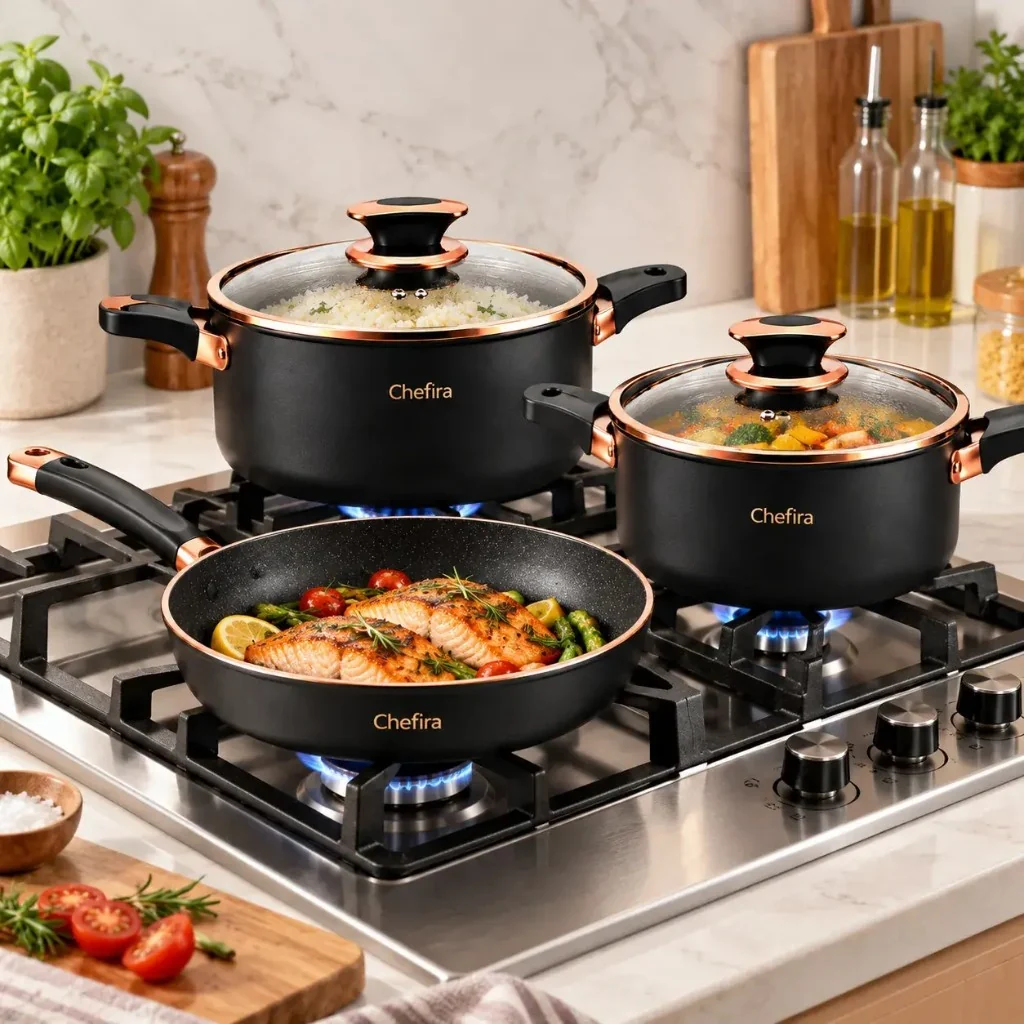
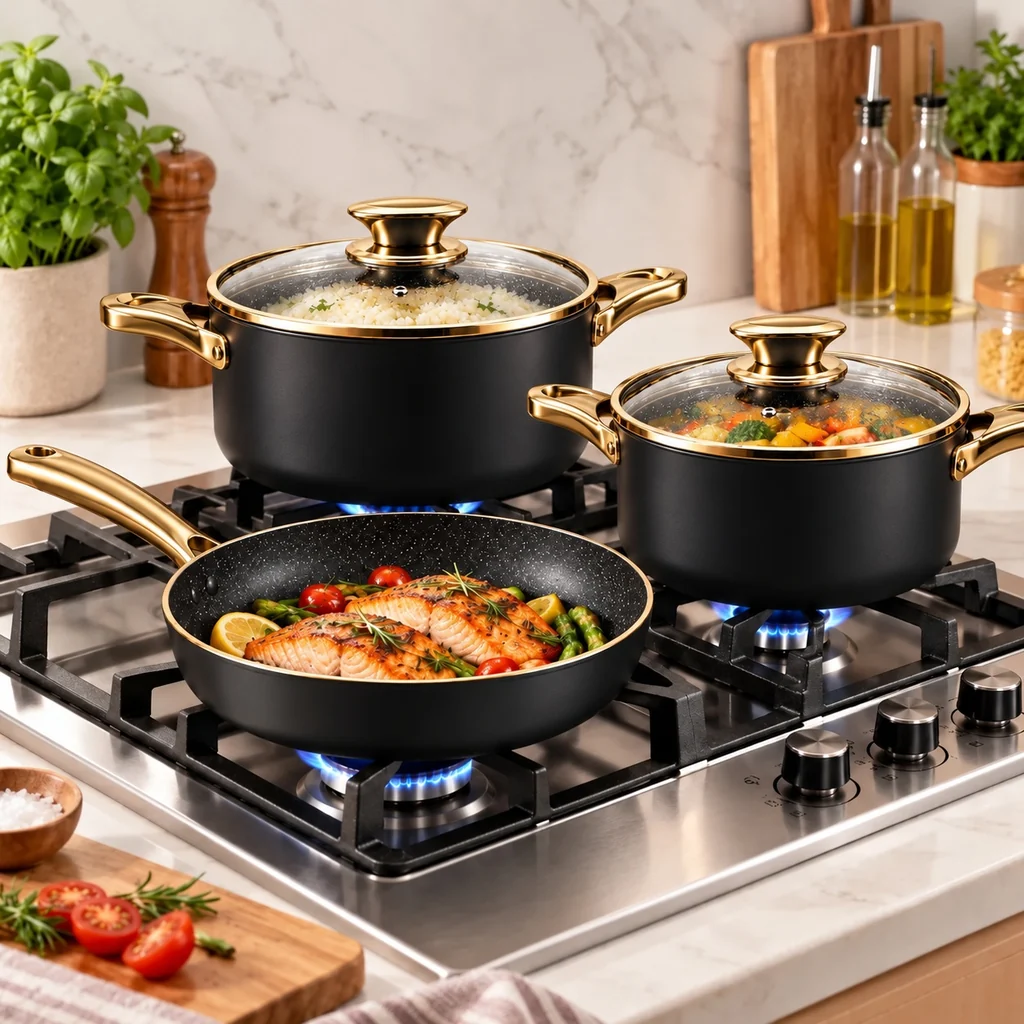
AURELIA: foto del modello nero e oro, niente piu' marchio altrui
La hero e' quella generata dall'utente (set 12 pezzi nero con manici dorati).
Le altre sette rifatte su quel modello, una per sezione, tenendo scena,
persona, inquadratura e luce dell'originale e cambiando solo le pentole:
manici e ghiere da rame a oro, interno effetto pietra puntinato, e via ogni
marchio e ogni scritta. Sulla foto della confezione anche il cartone torna
liscio e il volantino bianco: nella pagina adesso non compare piu' nessun
testo stampato dentro le immagini.

Luigia B. aveva la foto della scatola al posto di una persona, perche'
benefit-3 era usata in due posti: ora ha la sua (review-4), una signora che
cucina sul piano a induzione, che e' proprio quello di cui parla la sua
recensione.

Copy allineato al modello: "dettagli color rame" -> "manici dorati" nella
subheadline e nei due alt della hero. "Effetto pietra", "superficie minerale"
e "nero opaco" restano: l'interno del set nuovo e' puntinato e il corpo e'
nero satinato, quindi descrivono il prodotto vero.

diff --git a/it/aurelia/landing.html b/it/aurelia/landing.html
@@ -51,11 +51,11 @@ window.SITE_CONFIG = {
       </h1>
       <p class="trim-subtitle">
         Set AURELIA™ da 12 pezzi con superficie minerale PietraLeggera™, finitura nero opaco
-        e dettagli color rame. Antigraffio, senza PFOA, cinque coperchi in vetro temperato.
+        e manici dorati. Antigraffio, senza PFOA, cinque coperchi in vetro temperato.
         <b>Garanzia 2 anni</b>, reso entro 30 giorni!
       </p>
       <div class="trim-hero__image mobile-only">
-        <img decoding="async" src="/assets/img/products/aurelia/hero.webp?v=03f18ca4" alt="AURELIA™ — set di 12 pentole e padelle antiaderenti nere con rifiniture color rame e coperchi in vetro" width="1024" height="1024" fetchpriority="high">
+        <img decoding="async" src="/assets/img/products/aurelia/hero.webp?v=4a6193b1" alt="AURELIA™ — set di 12 pentole e padelle antiaderenti nere con manici dorati e coperchi in vetro" width="1024" height="1024" fetchpriority="high">
       </div>
       <div class="c4x-price-box">
         <div class="c4x-price-top">
@@ -87,7 +87,7 @@ window.SITE_CONFIG = {
       </div>
     </div>
     <div class="trim-hero__image desktop-only">
-      <img decoding="async" src="/assets/img/products/aurelia/hero.webp?v=03f18ca4" alt="AURELIA™ — set di 12 pentole e padelle antiaderenti nere con rifiniture color rame e coperchi in vetro" width="1024" height="1024">
+      <img decoding="async" src="/assets/img/products/aurelia/hero.webp?v=4a6193b1" alt="AURELIA™ — set di 12 pentole e padelle antiaderenti nere con manici dorati e coperchi in vetro" width="1024" height="1024">
     </div>
   </div>
 </section>
@@ -161,7 +161,7 @@ window.SITE_CONFIG = {
     </div>
     <div class="t77bx-media">
       <div class="t77bx-frame">
-        <img decoding="async" loading="lazy" src="/assets/img/products/aurelia/benefit-1.webp?v=a6dc3cb3" alt="Pentole AURELIA™ sul fuoco con dentro pesce e verdure che non si attaccano al fondo" width="1024" height="1024">
+        <img decoding="async" loading="lazy" src="/assets/img/products/aurelia/benefit-1.webp?v=7f3b2809" alt="Pentole AURELIA™ sul fuoco con dentro pesce e verdure che non si attaccano al fondo" width="1024" height="1024">
         <span class="t77bx-chip">🍳 PietraLeggera™</span>
       </div>
     </div>
@@ -199,7 +199,7 @@ window.SITE_CONFIG = {
     </div>
     <div class="t77bn-rows">
       <div class="t77bn-row">
-        <div class="t77bn-media"><img decoding="async" loading="lazy" src="/assets/img/products/aurelia/benefit-2.webp?v=8c2a4416" alt="La padella AURELIA™ si lava sotto l’acqua con la spugna morbida, senza raschiare" width="1024" height="1024"></div>
+        <div class="t77bn-media"><img decoding="async" loading="lazy" src="/assets/img/products/aurelia/benefit-2.webp?v=0a8e5d23" alt="La padella AURELIA™ si lava sotto l’acqua con la spugna morbida, senza raschiare" width="1024" height="1024"></div>
         <div class="t77bn-c">
           <div class="t77bn-ic">🧽</div>
           <h3>La sera non devi più restare a raschiare</h3>
@@ -209,7 +209,7 @@ window.SITE_CONFIG = {
         </div>
       </div>
       <div class="t77bn-row t77bn-row--rev">
-        <div class="t77bn-media"><img decoding="async" loading="lazy" src="/assets/img/products/aurelia/hero.webp?v=03f18ca4" alt="I dodici pezzi del set AURELIA™: pentole, casseruole, padelle e coperchi in vetro coordinati" width="1024" height="1024"></div>
+        <div class="t77bn-media"><img decoding="async" loading="lazy" src="/assets/img/products/aurelia/hero.webp?v=4a6193b1" alt="I dodici pezzi del set AURELIA™: pentole, casseruole, padelle e coperchi in vetro coordinati" width="1024" height="1024"></div>
         <div class="t77bn-c">
           <div class="t77bn-ic">📦</div>
           <h3>Dodici pezzi che vanno d’accordo fra loro</h3>
@@ -219,7 +219,7 @@ window.SITE_CONFIG = {
         </div>
       </div>
       <div class="t77bn-row">
-        <div class="t77bn-media"><img decoding="async" loading="lazy" src="/assets/img/reviews/aurelia/review-1.webp?v=183f36bb" alt="Una donna cucina al piano con la casseruola e la padella AURELIA™" width="1024" height="1024"></div>
+        <div class="t77bn-media"><img decoding="async" loading="lazy" src="/assets/img/reviews/aurelia/review-1.webp?v=306e4c54" alt="Una donna cucina al piano con la casseruola e la padella AURELIA™" width="1024" height="1024"></div>
         <div class="t77bn-c">
           <div class="t77bn-ic">🔌</div>
           <h3>Funzionano sul piano che hai adesso</h3>
@@ -276,7 +276,7 @@ window.SITE_CONFIG = {
     <div class="reviews-grid">
       <div class="review-card">
         <div class="review-image">
-          <img decoding="async" loading="lazy" src="/assets/img/reviews/aurelia/review-3.webp?v=3df45d82" alt="Rosanna M. cucina il sugo nella casseruola AURELIA™" width="1024" height="1024">
+          <img decoding="async" loading="lazy" src="/assets/img/reviews/aurelia/review-3.webp?v=a5815bb9" alt="Rosanna M. cucina il sugo nella casseruola AURELIA™" width="1024" height="1024">
         </div>
         <div class="review-content">
           <div class="review-stars">★★★★★</div>
@@ -287,7 +287,7 @@ window.SITE_CONFIG = {
       </div>
       <div class="review-card">
         <div class="review-image">
-          <img decoding="async" loading="lazy" src="/assets/img/reviews/aurelia/review-2.webp?v=c1aced2c" alt="Giancarlo T. gira la frittata nella padella AURELIA™" width="1024" height="1024">
+          <img decoding="async" loading="lazy" src="/assets/img/reviews/aurelia/review-2.webp?v=efcea004" alt="Giancarlo T. gira la frittata nella padella AURELIA™" width="1024" height="1024">
         </div>
         <div class="review-content">
           <div class="review-stars">★★★★★</div>
@@ -298,7 +298,7 @@ window.SITE_CONFIG = {
       </div>
       <div class="review-card">
         <div class="review-image">
-          <img decoding="async" loading="lazy" src="/assets/img/products/aurelia/benefit-3.webp?v=2c8cc6d8" alt="Il pacco AURELIA™ aperto sul tavolo con tutti i pezzi ancora imbustati" width="1024" height="1024">
+          <img decoding="async" loading="lazy" src="/assets/img/reviews/aurelia/review-4.webp?v=a2d5f585" alt="Luigia B. cucina con il tegame AURELIA™ sul piano a induzione" width="1024" height="1024">
         </div>
         <div class="review-content">
           <div class="review-stars">★★★★☆</div>
@@ -322,7 +322,7 @@ window.SITE_CONFIG = {
       <p>Cinque pentole con i loro coperchi in vetro temperato e due padelle: la cucina attrezzata in una scatola sola.</p>
     </div>
     <div class="kit-photo">
-      <img decoding="async" loading="lazy" src="/assets/img/products/aurelia/benefit-3.webp?v=2c8cc6d8" alt="La scatola di AURELIA™ aperta con dentro tutti i pezzi del set ancora imbustati" width="1024" height="1024">
+      <img decoding="async" loading="lazy" src="/assets/img/products/aurelia/benefit-3.webp?v=65b31ed9" alt="La scatola di AURELIA™ aperta con dentro tutti i pezzi del set ancora imbustati" width="1024" height="1024">
     </div>
     <div class="kit-table">
       <div class="kit-table-header">
